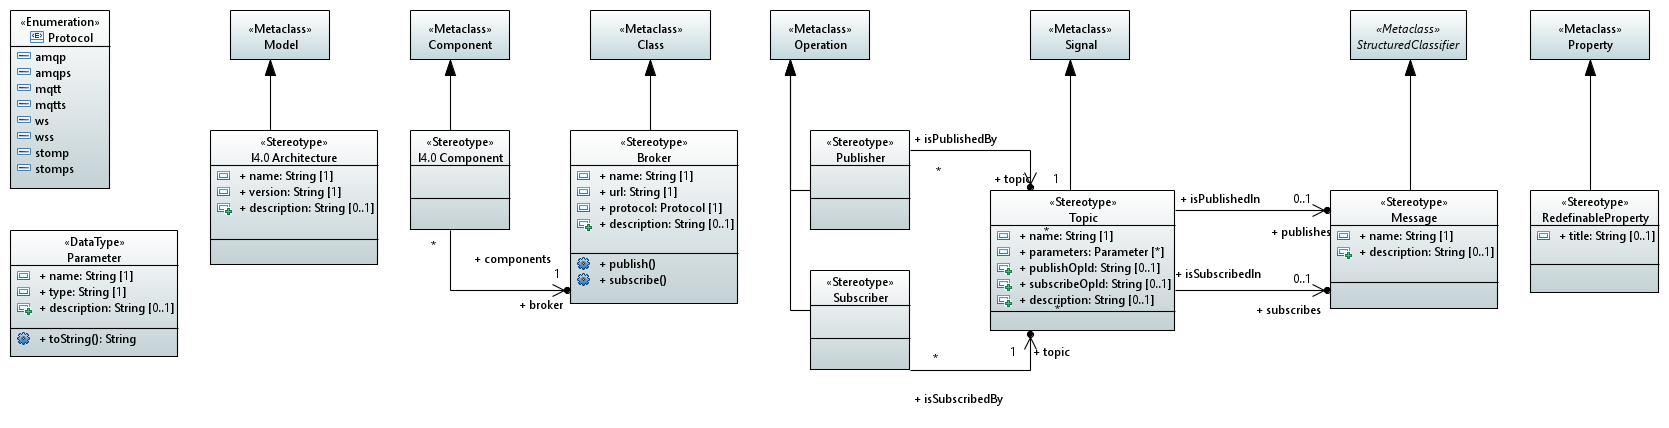
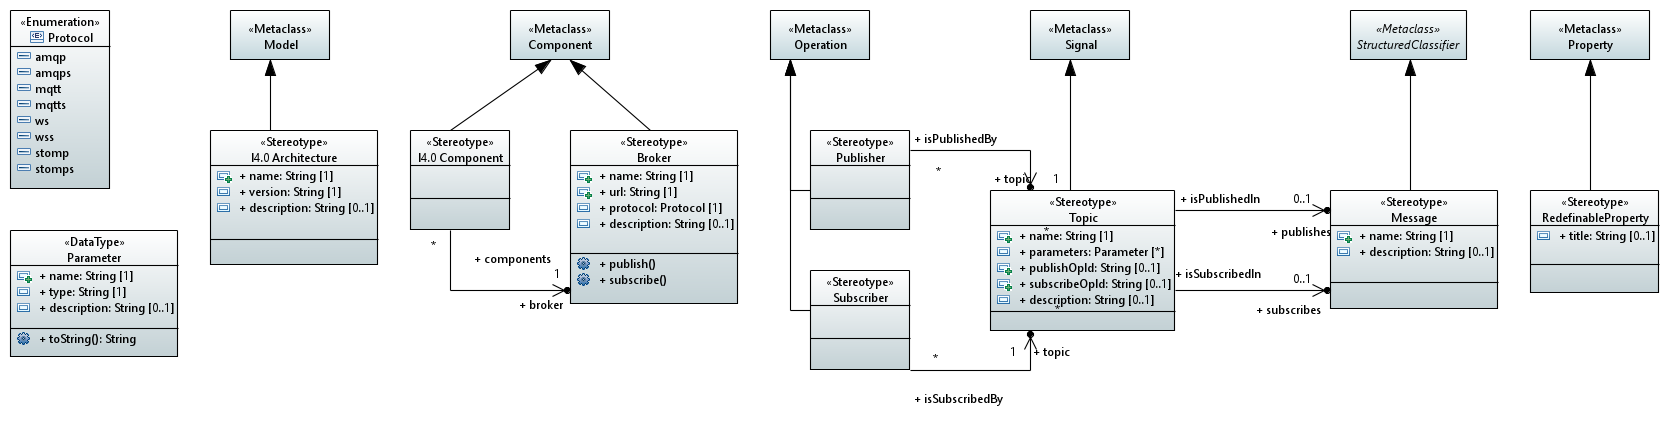
Change Broker extension

Changed region(s): [[0.2181, 0.0607, 0.4362, 0.1822]]

diff --git a/plugins/io.github.abelgomez.asyncapi.i40.profile/src/io/github/abelgomez/asyncapi/i40/impl/BrokerImpl.java b/plugins/io.github.abelgomez.asyncapi.i40.profile/src/io/github/abelgomez/asyncapi/i40/impl/BrokerImpl.java
@@ -17,6 +17,7 @@ import org.eclipse.emf.ecore.InternalEObject;
 
 import org.eclipse.emf.ecore.impl.ENotificationImpl;
 import org.eclipse.emf.ecore.impl.MinimalEObjectImpl;
+import org.eclipse.uml2.uml.Component;
 
 /**
  * <!-- begin-user-doc -->
@@ -30,7 +31,7 @@ import org.eclipse.emf.ecore.impl.MinimalEObjectImpl;
  *   <li>{@link io.github.abelgomez.asyncapi.i40.impl.BrokerImpl#getUrl <em>Url</em>}</li>
  *   <li>{@link io.github.abelgomez.asyncapi.i40.impl.BrokerImpl#getProtocol <em>Protocol</em>}</li>
  *   <li>{@link io.github.abelgomez.asyncapi.i40.impl.BrokerImpl#getDescription <em>Description</em>}</li>
- *   <li>{@link io.github.abelgomez.asyncapi.i40.impl.BrokerImpl#getBase_Class <em>Base Class</em>}</li>
+ *   <li>{@link io.github.abelgomez.asyncapi.i40.impl.BrokerImpl#getBase_Component <em>Base Component</em>}</li>
  * </ul>
  *
  * @generated
@@ -117,14 +118,14 @@ public class BrokerImpl extends MinimalEObjectImpl.Container implements Broker {
 	protected String description = DESCRIPTION_EDEFAULT;
 
 	/**
-	 * The cached value of the '{@link #getBase_Class() <em>Base Class</em>}' reference.
+	 * The cached value of the '{@link #getBase_Component() <em>Base Component</em>}' reference.
 	 * <!-- begin-user-doc -->
 	 * <!-- end-user-doc -->
-	 * @see #getBase_Class()
+	 * @see #getBase_Component()
 	 * @generated
 	 * @ordered
 	 */
-	protected org.eclipse.uml2.uml.Class base_Class;
+	protected Component base_Component;
 
 	/**
 	 * <!-- begin-user-doc -->
@@ -234,16 +235,16 @@ public class BrokerImpl extends MinimalEObjectImpl.Container implements Broker {
 	 * <!-- end-user-doc -->
 	 * @generated
 	 */
-	public org.eclipse.uml2.uml.Class getBase_Class() {
-		if (base_Class != null && base_Class.eIsProxy()) {
-			InternalEObject oldBase_Class = (InternalEObject)base_Class;
-			base_Class = (org.eclipse.uml2.uml.Class)eResolveProxy(oldBase_Class);
-			if (base_Class != oldBase_Class) {
+	public Component getBase_Component() {
+		if (base_Component != null && base_Component.eIsProxy()) {
+			InternalEObject oldBase_Component = (InternalEObject)base_Component;
+			base_Component = (Component)eResolveProxy(oldBase_Component);
+			if (base_Component != oldBase_Component) {
 				if (eNotificationRequired())
-					eNotify(new ENotificationImpl(this, Notification.RESOLVE, I40Package.BROKER__BASE_CLASS, oldBase_Class, base_Class));
+					eNotify(new ENotificationImpl(this, Notification.RESOLVE, I40Package.BROKER__BASE_COMPONENT, oldBase_Component, base_Component));
 			}
 		}
-		return base_Class;
+		return base_Component;
 	}
 
 	/**
@@ -251,8 +252,8 @@ public class BrokerImpl extends MinimalEObjectImpl.Container implements Broker {
 	 * <!-- end-user-doc -->
 	 * @generated
 	 */
-	public org.eclipse.uml2.uml.Class basicGetBase_Class() {
-		return base_Class;
+	public Component basicGetBase_Component() {
+		return base_Component;
 	}
 
 	/**
@@ -260,11 +261,11 @@ public class BrokerImpl extends MinimalEObjectImpl.Container implements Broker {
 	 * <!-- end-user-doc -->
 	 * @generated
 	 */
-	public void setBase_Class(org.eclipse.uml2.uml.Class newBase_Class) {
-		org.eclipse.uml2.uml.Class oldBase_Class = base_Class;
-		base_Class = newBase_Class;
+	public void setBase_Component(Component newBase_Component) {
+		Component oldBase_Component = base_Component;
+		base_Component = newBase_Component;
 		if (eNotificationRequired())
-			eNotify(new ENotificationImpl(this, Notification.SET, I40Package.BROKER__BASE_CLASS, oldBase_Class, base_Class));
+			eNotify(new ENotificationImpl(this, Notification.SET, I40Package.BROKER__BASE_COMPONENT, oldBase_Component, base_Component));
 	}
 
 	/**
@@ -305,9 +306,9 @@ public class BrokerImpl extends MinimalEObjectImpl.Container implements Broker {
 				return getProtocol();
 			case I40Package.BROKER__DESCRIPTION:
 				return getDescription();
-			case I40Package.BROKER__BASE_CLASS:
-				if (resolve) return getBase_Class();
-				return basicGetBase_Class();
+			case I40Package.BROKER__BASE_COMPONENT:
+				if (resolve) return getBase_Component();
+				return basicGetBase_Component();
 		}
 		return super.eGet(featureID, resolve, coreType);
 	}
@@ -332,8 +333,8 @@ public class BrokerImpl extends MinimalEObjectImpl.Container implements Broker {
 			case I40Package.BROKER__DESCRIPTION:
 				setDescription((String)newValue);
 				return;
-			case I40Package.BROKER__BASE_CLASS:
-				setBase_Class((org.eclipse.uml2.uml.Class)newValue);
+			case I40Package.BROKER__BASE_COMPONENT:
+				setBase_Component((Component)newValue);
 				return;
 		}
 		super.eSet(featureID, newValue);
@@ -359,8 +360,8 @@ public class BrokerImpl extends MinimalEObjectImpl.Container implements Broker {
 			case I40Package.BROKER__DESCRIPTION:
 				setDescription(DESCRIPTION_EDEFAULT);
 				return;
-			case I40Package.BROKER__BASE_CLASS:
-				setBase_Class((org.eclipse.uml2.uml.Class)null);
+			case I40Package.BROKER__BASE_COMPONENT:
+				setBase_Component((Component)null);
 				return;
 		}
 		super.eUnset(featureID);
@@ -382,8 +383,8 @@ public class BrokerImpl extends MinimalEObjectImpl.Container implements Broker {
 				return protocol != PROTOCOL_EDEFAULT;
 			case I40Package.BROKER__DESCRIPTION:
 				return DESCRIPTION_EDEFAULT == null ? description != null : !DESCRIPTION_EDEFAULT.equals(description);
-			case I40Package.BROKER__BASE_CLASS:
-				return base_Class != null;
+			case I40Package.BROKER__BASE_COMPONENT:
+				return base_Component != null;
 		}
 		return super.eIsSet(featureID);
 	}

diff --git a/plugins/io.github.abelgomez.asyncapi.i40.profile/src/io/github/abelgomez/asyncapi/i40/Broker.java b/plugins/io.github.abelgomez.asyncapi.i40.profile/src/io/github/abelgomez/asyncapi/i40/Broker.java
@@ -3,6 +3,7 @@
 package io.github.abelgomez.asyncapi.i40;
 
 import org.eclipse.emf.ecore.EObject;
+import org.eclipse.uml2.uml.Component;
 
 /**
  * <!-- begin-user-doc -->
@@ -17,7 +18,7 @@ import org.eclipse.emf.ecore.EObject;
  *   <li>{@link io.github.abelgomez.asyncapi.i40.Broker#getUrl <em>Url</em>}</li>
  *   <li>{@link io.github.abelgomez.asyncapi.i40.Broker#getProtocol <em>Protocol</em>}</li>
  *   <li>{@link io.github.abelgomez.asyncapi.i40.Broker#getDescription <em>Description</em>}</li>
- *   <li>{@link io.github.abelgomez.asyncapi.i40.Broker#getBase_Class <em>Base Class</em>}</li>
+ *   <li>{@link io.github.abelgomez.asyncapi.i40.Broker#getBase_Component <em>Base Component</em>}</li>
  * </ul>
  *
  * @see io.github.abelgomez.asyncapi.i40.I40Package#getBroker()
@@ -133,30 +134,30 @@ public interface Broker extends EObject {
 	void setDescription(String value);
 
 	/**
-	 * Returns the value of the '<em><b>Base Class</b></em>' reference.
+	 * Returns the value of the '<em><b>Base Component</b></em>' reference.
 	 * <!-- begin-user-doc -->
 	 * <p>
-	 * If the meaning of the '<em>Base Class</em>' reference isn't clear,
+	 * If the meaning of the '<em>Base Component</em>' reference isn't clear,
 	 * there really should be more of a description here...
 	 * </p>
 	 * <!-- end-user-doc -->
-	 * @return the value of the '<em>Base Class</em>' reference.
-	 * @see #setBase_Class(org.eclipse.uml2.uml.Class)
-	 * @see io.github.abelgomez.asyncapi.i40.I40Package#getBroker_Base_Class()
+	 * @return the value of the '<em>Base Component</em>' reference.
+	 * @see #setBase_Component(Component)
+	 * @see io.github.abelgomez.asyncapi.i40.I40Package#getBroker_Base_Component()
 	 * @model ordered="false"
 	 * @generated
 	 */
-	org.eclipse.uml2.uml.Class getBase_Class();
+	Component getBase_Component();
 
 	/**
-	 * Sets the value of the '{@link io.github.abelgomez.asyncapi.i40.Broker#getBase_Class <em>Base Class</em>}' reference.
+	 * Sets the value of the '{@link io.github.abelgomez.asyncapi.i40.Broker#getBase_Component <em>Base Component</em>}' reference.
 	 * <!-- begin-user-doc -->
 	 * <!-- end-user-doc -->
-	 * @param value the new value of the '<em>Base Class</em>' reference.
-	 * @see #getBase_Class()
+	 * @param value the new value of the '<em>Base Component</em>' reference.
+	 * @see #getBase_Component()
 	 * @generated
 	 */
-	void setBase_Class(org.eclipse.uml2.uml.Class value);
+	void setBase_Component(Component value);
 
 	/**
 	 * <!-- begin-user-doc -->

diff --git a/plugins/io.github.abelgomez.asyncapi.i40.profile/src/io/github/abelgomez/asyncapi/i40/impl/I40PackageImpl.java b/plugins/io.github.abelgomez.asyncapi.i40.profile/src/io/github/abelgomez/asyncapi/i40/impl/I40PackageImpl.java
@@ -267,7 +267,7 @@ public class I40PackageImpl extends EPackageImpl implements I40Package {
 	 * <!-- end-user-doc -->
 	 * @generated
 	 */
-	public EReference getBroker_Base_Class() {
+	public EReference getBroker_Base_Component() {
 		return (EReference)brokerEClass.getEStructuralFeatures().get(4);
 	}
 
@@ -611,7 +611,7 @@ public class I40PackageImpl extends EPackageImpl implements I40Package {
 		createEAttribute(brokerEClass, BROKER__URL);
 		createEAttribute(brokerEClass, BROKER__PROTOCOL);
 		createEAttribute(brokerEClass, BROKER__DESCRIPTION);
-		createEReference(brokerEClass, BROKER__BASE_CLASS);
+		createEReference(brokerEClass, BROKER__BASE_COMPONENT);
 		createEOperation(brokerEClass, BROKER___PUBLISH);
 		createEOperation(brokerEClass, BROKER___SUBSCRIBE);
 
@@ -701,7 +701,7 @@ public class I40PackageImpl extends EPackageImpl implements I40Package {
 		initEAttribute(getBroker_Url(), theTypesPackage.getString(), "url", null, 1, 1, Broker.class, !IS_TRANSIENT, !IS_VOLATILE, IS_CHANGEABLE, !IS_UNSETTABLE, !IS_ID, IS_UNIQUE, !IS_DERIVED, !IS_ORDERED);
 		initEAttribute(getBroker_Protocol(), this.getProtocol(), "protocol", null, 1, 1, Broker.class, !IS_TRANSIENT, !IS_VOLATILE, IS_CHANGEABLE, !IS_UNSETTABLE, !IS_ID, IS_UNIQUE, !IS_DERIVED, !IS_ORDERED);
 		initEAttribute(getBroker_Description(), theTypesPackage.getString(), "description", null, 0, 1, Broker.class, !IS_TRANSIENT, !IS_VOLATILE, IS_CHANGEABLE, !IS_UNSETTABLE, !IS_ID, IS_UNIQUE, !IS_DERIVED, !IS_ORDERED);
-		initEReference(getBroker_Base_Class(), theUMLPackage.getClass_(), null, "base_Class", null, 0, 1, Broker.class, !IS_TRANSIENT, !IS_VOLATILE, IS_CHANGEABLE, !IS_COMPOSITE, IS_RESOLVE_PROXIES, !IS_UNSETTABLE, IS_UNIQUE, !IS_DERIVED, !IS_ORDERED);
+		initEReference(getBroker_Base_Component(), theUMLPackage.getComponent(), null, "base_Component", null, 0, 1, Broker.class, !IS_TRANSIENT, !IS_VOLATILE, IS_CHANGEABLE, !IS_COMPOSITE, IS_RESOLVE_PROXIES, !IS_UNSETTABLE, IS_UNIQUE, !IS_DERIVED, !IS_ORDERED);
 
 		initEOperation(getBroker__Publish(), null, "publish", 1, 1, IS_UNIQUE, !IS_ORDERED);
 

diff --git a/plugins/io.github.abelgomez.asyncapi.i40.profile/src/io/github/abelgomez/asyncapi/i40/I40Package.java b/plugins/io.github.abelgomez.asyncapi.i40.profile/src/io/github/abelgomez/asyncapi/i40/I40Package.java
@@ -266,13 +266,13 @@ public interface I40Package extends EPackage {
 	int BROKER__DESCRIPTION = 3;
 
 	/**
-	 * The feature id for the '<em><b>Base Class</b></em>' reference.
+	 * The feature id for the '<em><b>Base Component</b></em>' reference.
 	 * <!-- begin-user-doc -->
 	 * <!-- end-user-doc -->
 	 * @generated
 	 * @ordered
 	 */
-	int BROKER__BASE_CLASS = 4;
+	int BROKER__BASE_COMPONENT = 4;
 
 	/**
 	 * The number of structural features of the '<em>Broker</em>' class.
@@ -737,15 +737,15 @@ public interface I40Package extends EPackage {
 	EAttribute getBroker_Description();
 
 	/**
-	 * Returns the meta object for the reference '{@link io.github.abelgomez.asyncapi.i40.Broker#getBase_Class <em>Base Class</em>}'.
+	 * Returns the meta object for the reference '{@link io.github.abelgomez.asyncapi.i40.Broker#getBase_Component <em>Base Component</em>}'.
 	 * <!-- begin-user-doc -->
 	 * <!-- end-user-doc -->
-	 * @return the meta object for the reference '<em>Base Class</em>'.
-	 * @see io.github.abelgomez.asyncapi.i40.Broker#getBase_Class()
+	 * @return the meta object for the reference '<em>Base Component</em>'.
+	 * @see io.github.abelgomez.asyncapi.i40.Broker#getBase_Component()
 	 * @see #getBroker()
 	 * @generated
 	 */
-	EReference getBroker_Base_Class();
+	EReference getBroker_Base_Component();
 
 	/**
 	 * Returns the meta object for the '{@link io.github.abelgomez.asyncapi.i40.Broker#publish() <em>Publish</em>}' operation.
@@ -1207,12 +1207,12 @@ public interface I40Package extends EPackage {
 		EAttribute BROKER__DESCRIPTION = eINSTANCE.getBroker_Description();
 
 		/**
-		 * The meta object literal for the '<em><b>Base Class</b></em>' reference feature.
+		 * The meta object literal for the '<em><b>Base Component</b></em>' reference feature.
 		 * <!-- begin-user-doc -->
 		 * <!-- end-user-doc -->
 		 * @generated
 		 */
-		EReference BROKER__BASE_CLASS = eINSTANCE.getBroker_Base_Class();
+		EReference BROKER__BASE_COMPONENT = eINSTANCE.getBroker_Base_Component();
 
 		/**
 		 * The meta object literal for the '<em><b>Publish</b></em>' operation.
